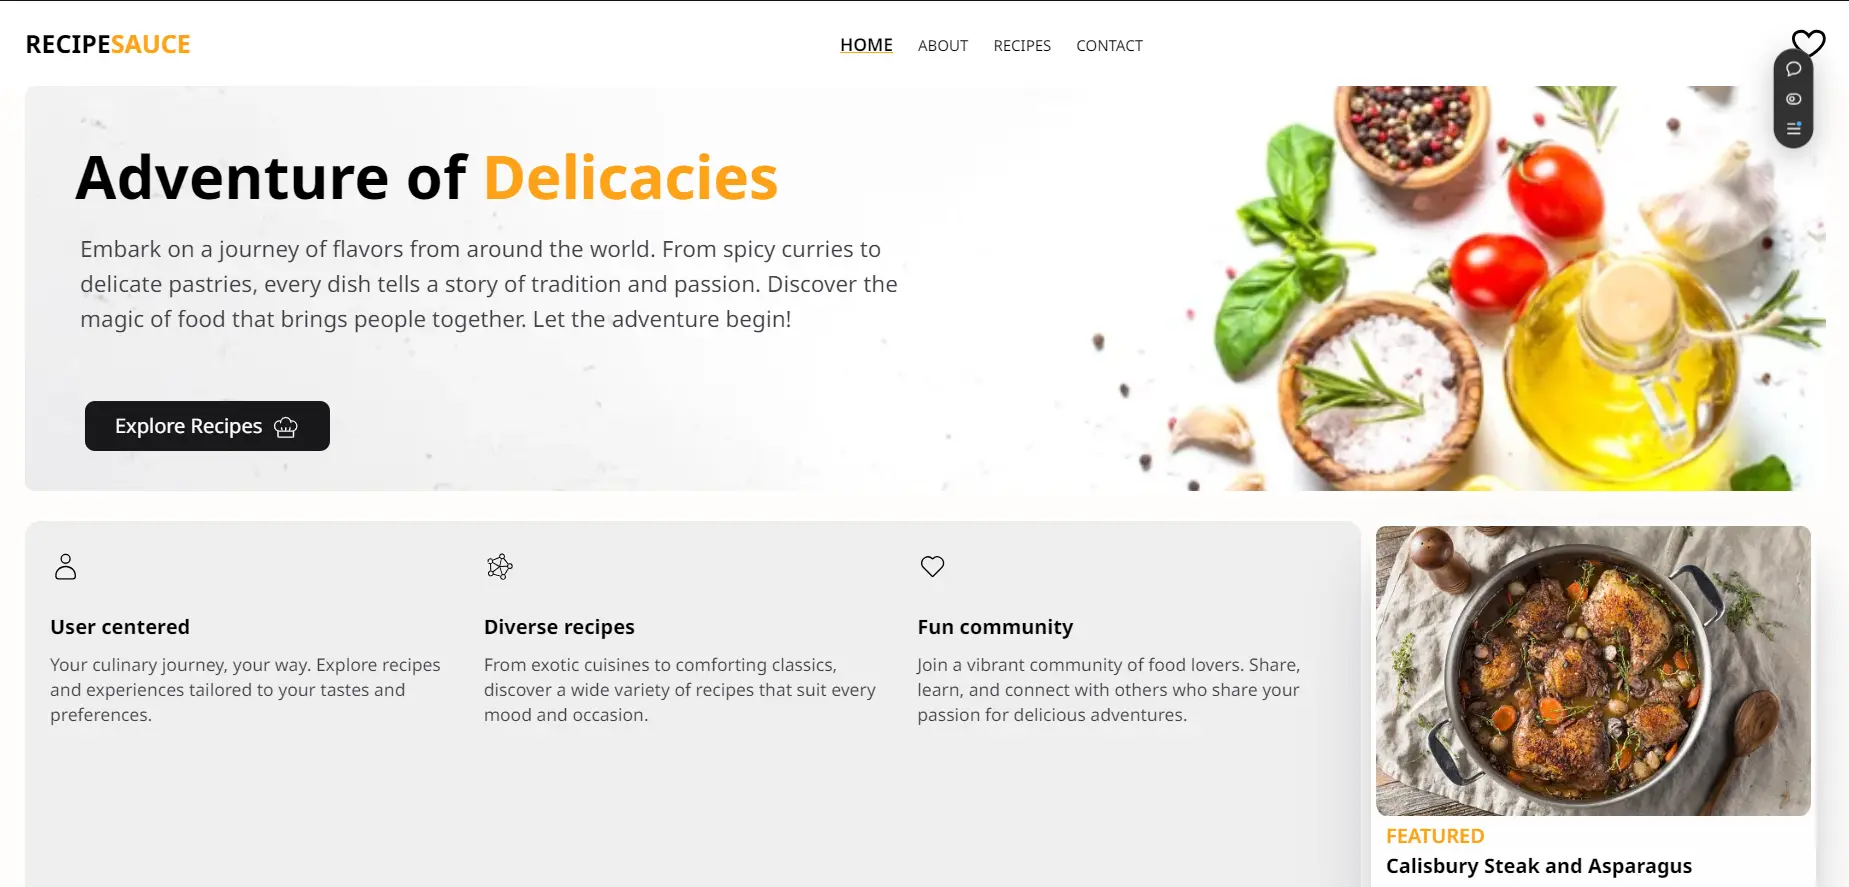
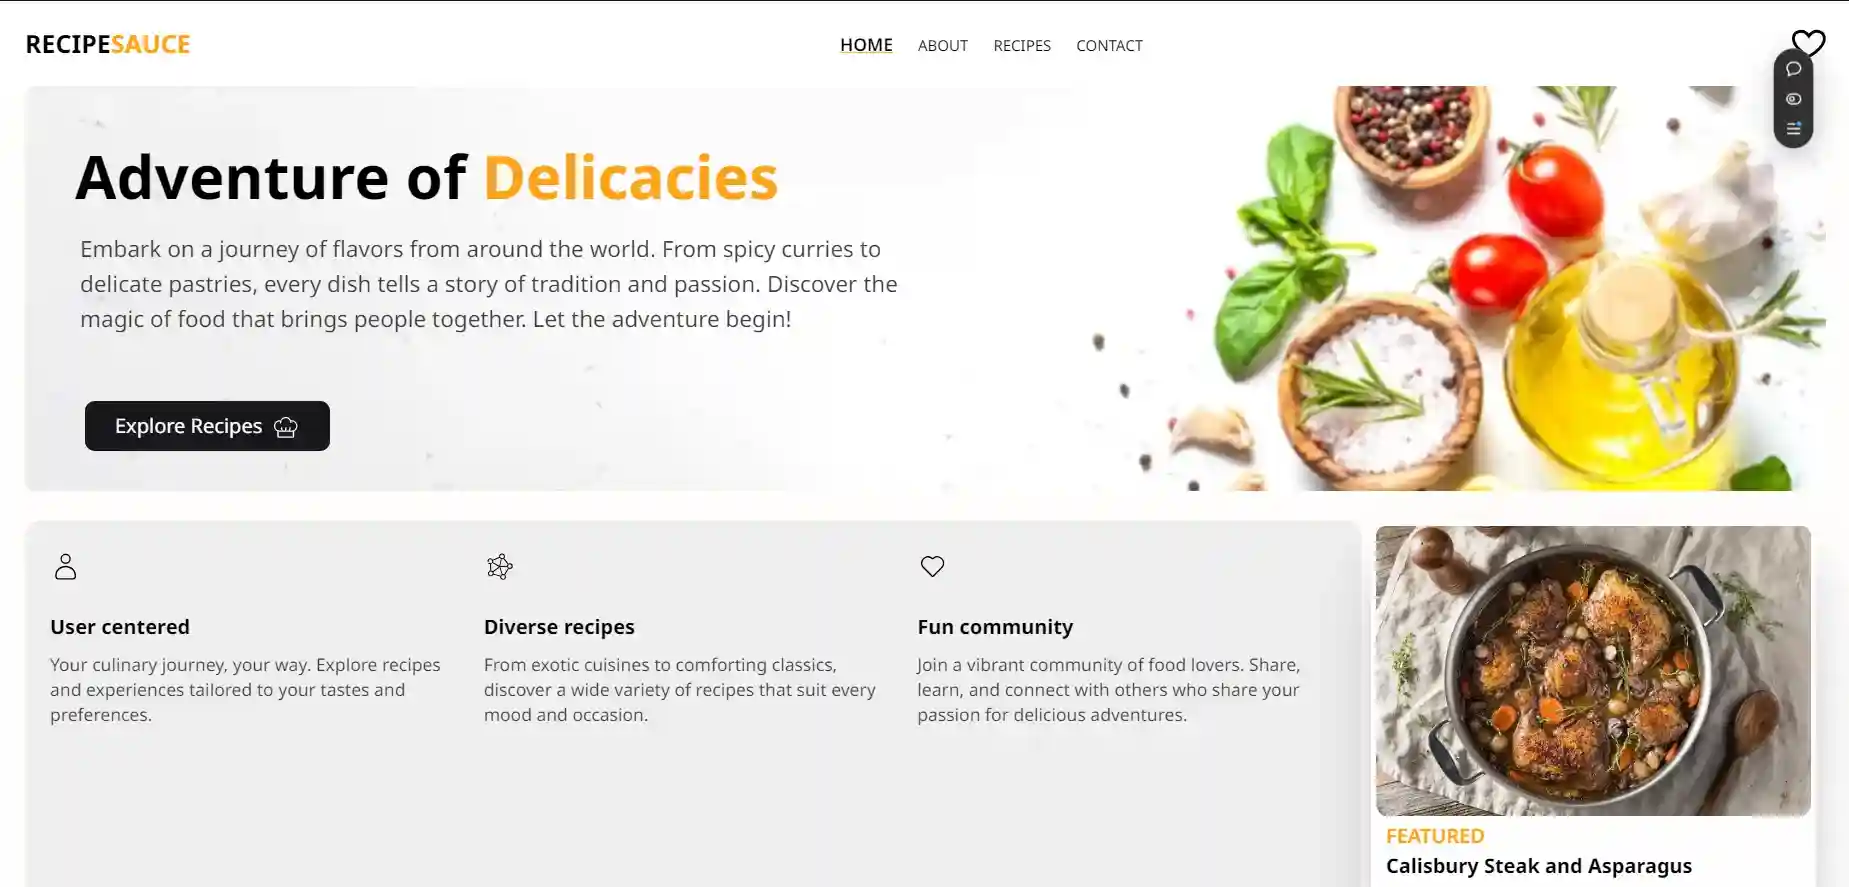
updated

diff --git a/src/Work.jsx b/src/Work.jsx
@@ -5,6 +5,7 @@ import gym from "./assets/Products1_page.webp";
 import recipesauce from "./assets/recipesauce.webp";
 import home from "./assets/home_page.webp";
 import linkedIn from "./assets/linkedin.webp";
+import event from "./assets/event.webp"
 import "animate.css";
 
 const Work = () => {
@@ -14,7 +15,7 @@ const Work = () => {
     {
       title: "Event Management",
       description: "Web Development",
-      image: home,
+      image: event,
       link: "https://github.com/BHuvaneshvar933/Event-Management",
     },
     {
